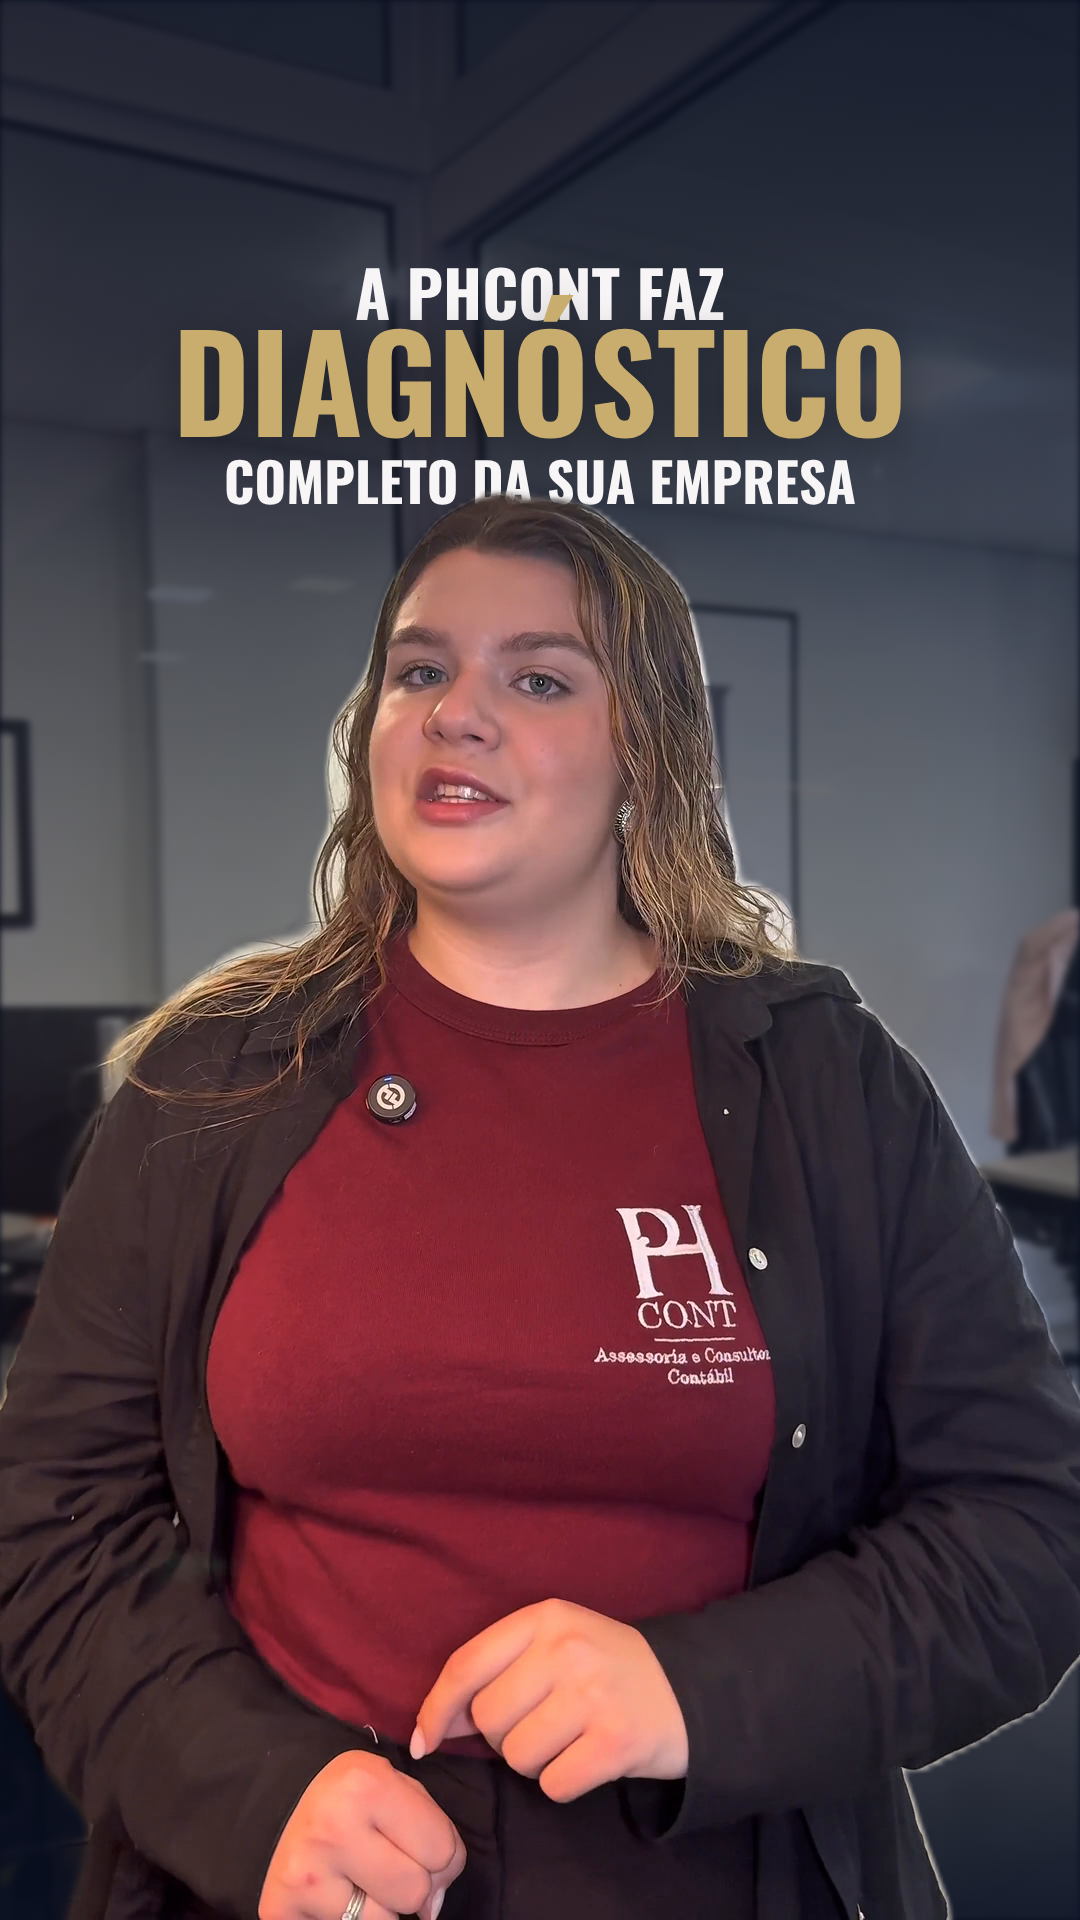
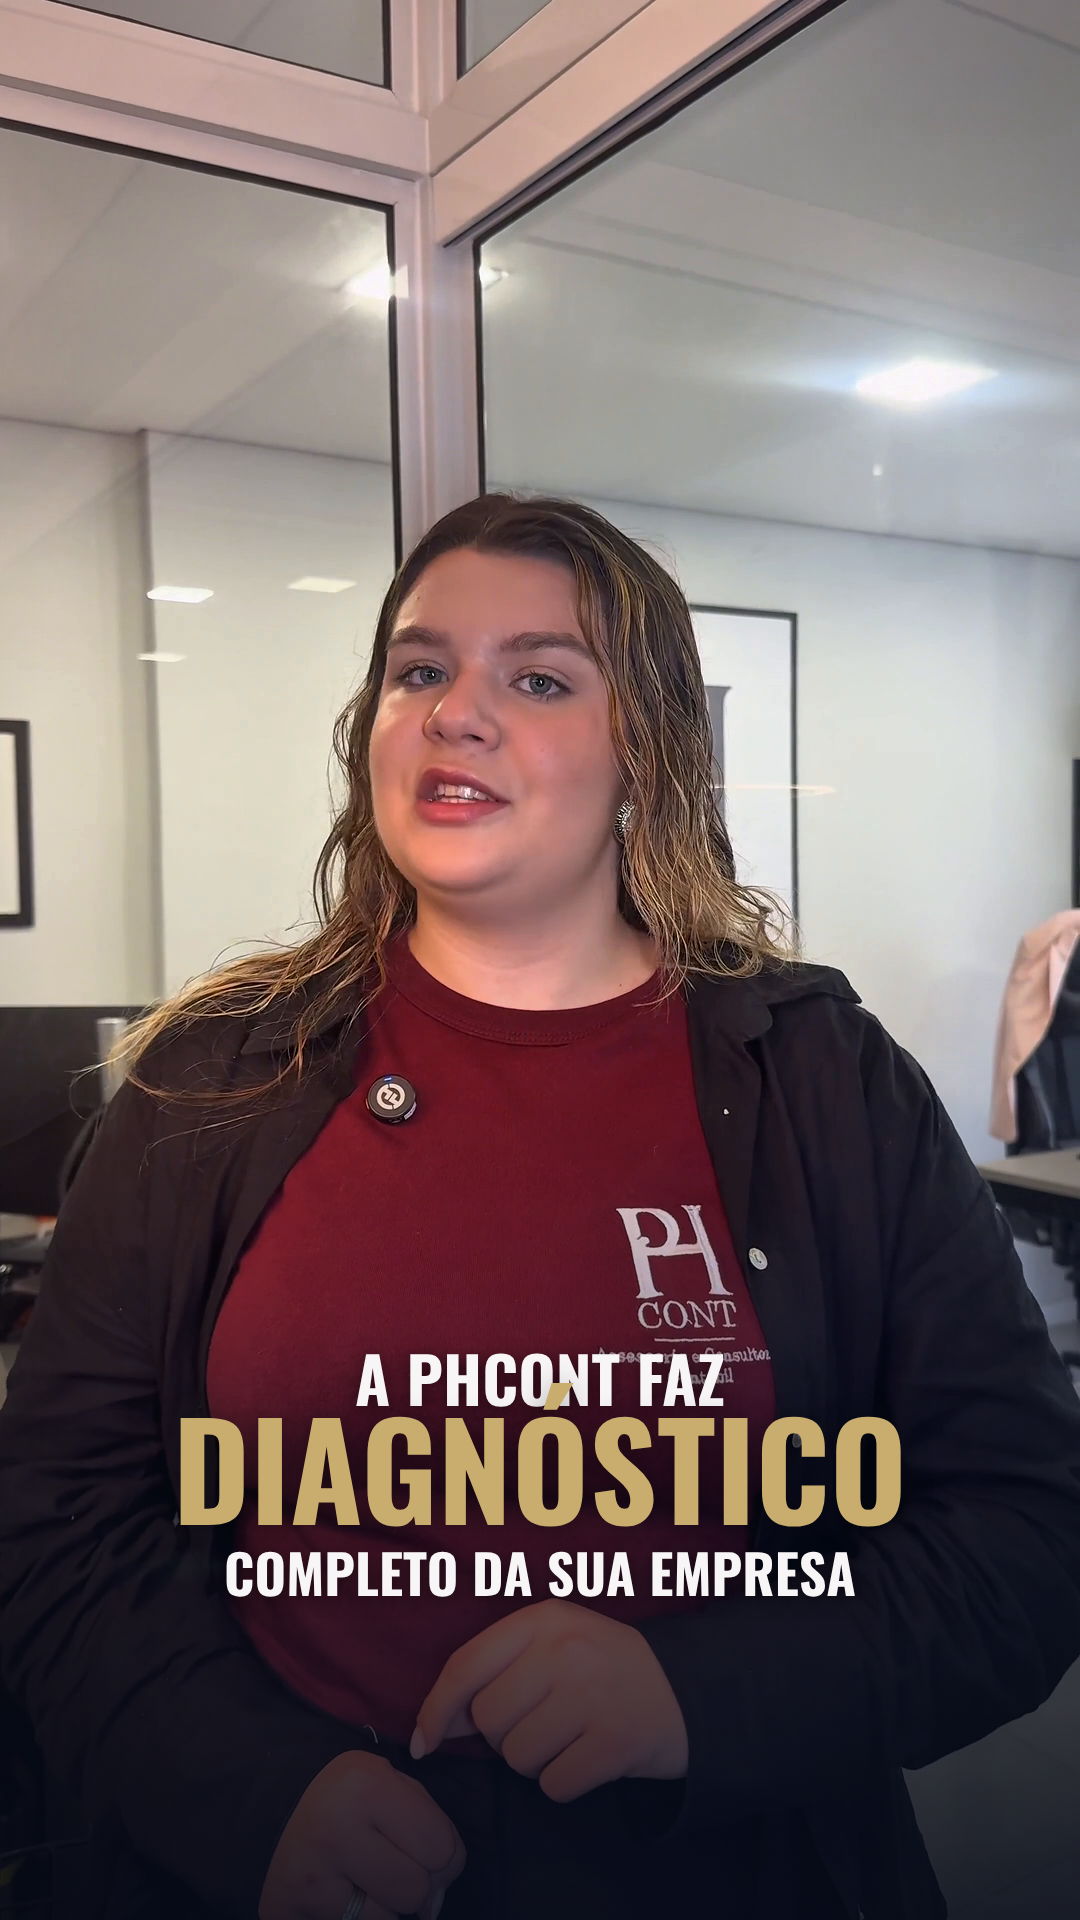
Capa: sombreamento leve e título embaixo
Claude-Session: https://claude.ai/code/session_012bVqEb5M2bw1tnz2qQiCDo

diff --git a/edicao_video2/capa/capa.html b/edicao_video2/capa/capa.html
@@ -3,8 +3,8 @@
 @import url('https://fonts.googleapis.com/css2?family=Oswald:wght@500;700&family=Poppins:wght@500;600;700&family=Caveat:wght@700&display=swap');
 *{margin:0;padding:0;box-sizing:border-box}
 html,body{width:1080px;height:1920px;overflow:hidden;background:#070d1c}
-.fundo{position:absolute;inset:0;background:url(q_4.4.png) center/cover;filter:blur(3px) saturate(.9)}
-.tinta{position:absolute;inset:0;background:linear-gradient(180deg,rgba(9,16,34,.88) 0%,rgba(9,16,34,.62) 38%,rgba(9,16,34,.35) 62%,rgba(9,16,34,.92) 100%)}
+.fundo{position:absolute;inset:0;background:url(q_4.4.png) center/cover}
+.tinta{position:absolute;inset:0;background:radial-gradient(ellipse 85% 70% at 50% 42%,rgba(0,0,0,0) 55%,rgba(0,0,0,.28) 100%),linear-gradient(180deg,rgba(0,0,0,0) 55%,rgba(9,16,34,.55) 78%,rgba(9,16,34,.85) 100%)}
 .ela{position:absolute;left:0;top:0;width:1080px;height:1920px;object-fit:cover}
 .rot{position:absolute;left:0;width:1080px;top:262px;text-align:center;font-family:Poppins;font-weight:600;font-size:30px;letter-spacing:.32em;color:#c9ad6e}
 .t1{position:absolute;left:0;width:1080px;top:305px;text-align:center;font-family:Oswald;font-weight:700;font-size:86px;color:#f7f5f6;text-transform:uppercase;letter-spacing:.01em}
@@ -15,13 +15,12 @@ html,body{width:1080px;height:1920px;overflow:hidden;background:#070d1c}
 .sub b{color:#c9ad6e}
 .mao{font-family:Caveat;font-weight:700;color:#c9ad6e;font-size:52px;position:absolute;left:80px;top:1180px;transform:rotate(-7deg)}
 .logo{position:absolute;left:50%;top:1600px;width:120px;transform:translateX(-50%)}
-.l1{position:absolute;left:0;width:1080px;top:244px;text-align:center;font-family:Oswald;font-weight:700;font-size:64px;color:#f7f5f6;text-transform:uppercase}
-.l2{position:absolute;left:0;width:1080px;top:312px;text-align:center;font-family:Oswald;font-weight:700;font-size:132px;line-height:1;color:#c9ad6e;text-transform:uppercase;text-shadow:0 8px 40px rgba(0,0,0,.35)}
-.l3{position:absolute;left:0;width:1080px;top:440px;text-align:center;font-family:Oswald;font-weight:700;font-size:54px;color:#f7f5f6;text-transform:uppercase}
+.l1{position:absolute;left:0;width:1080px;top:1330px;text-align:center;font-family:Oswald;font-weight:700;font-size:64px;color:#f7f5f6;text-transform:uppercase;text-shadow:0 3px 18px rgba(0,0,0,.5)}
+.l2{position:absolute;left:0;width:1080px;top:1400px;text-align:center;font-family:Oswald;font-weight:700;font-size:132px;line-height:1;color:#c9ad6e;text-transform:uppercase;text-shadow:0 6px 30px rgba(0,0,0,.45)}
+.l3{position:absolute;left:0;width:1080px;top:1532px;text-align:center;font-family:Oswald;font-weight:700;font-size:54px;color:#f7f5f6;text-transform:uppercase;text-shadow:0 3px 18px rgba(0,0,0,.5)}
 </style></head><body>
 <div class="fundo"></div><div class="tinta"></div>
-<div class="l1">A PHcont faz</div>
+<div class="dummy"></div><div class="l1">A PHcont faz</div>
 <div class="l2">diagnóstico</div>
 <div class="l3">completo da sua empresa</div>
-<img class="ela" src="ela.png">
 </body></html>
